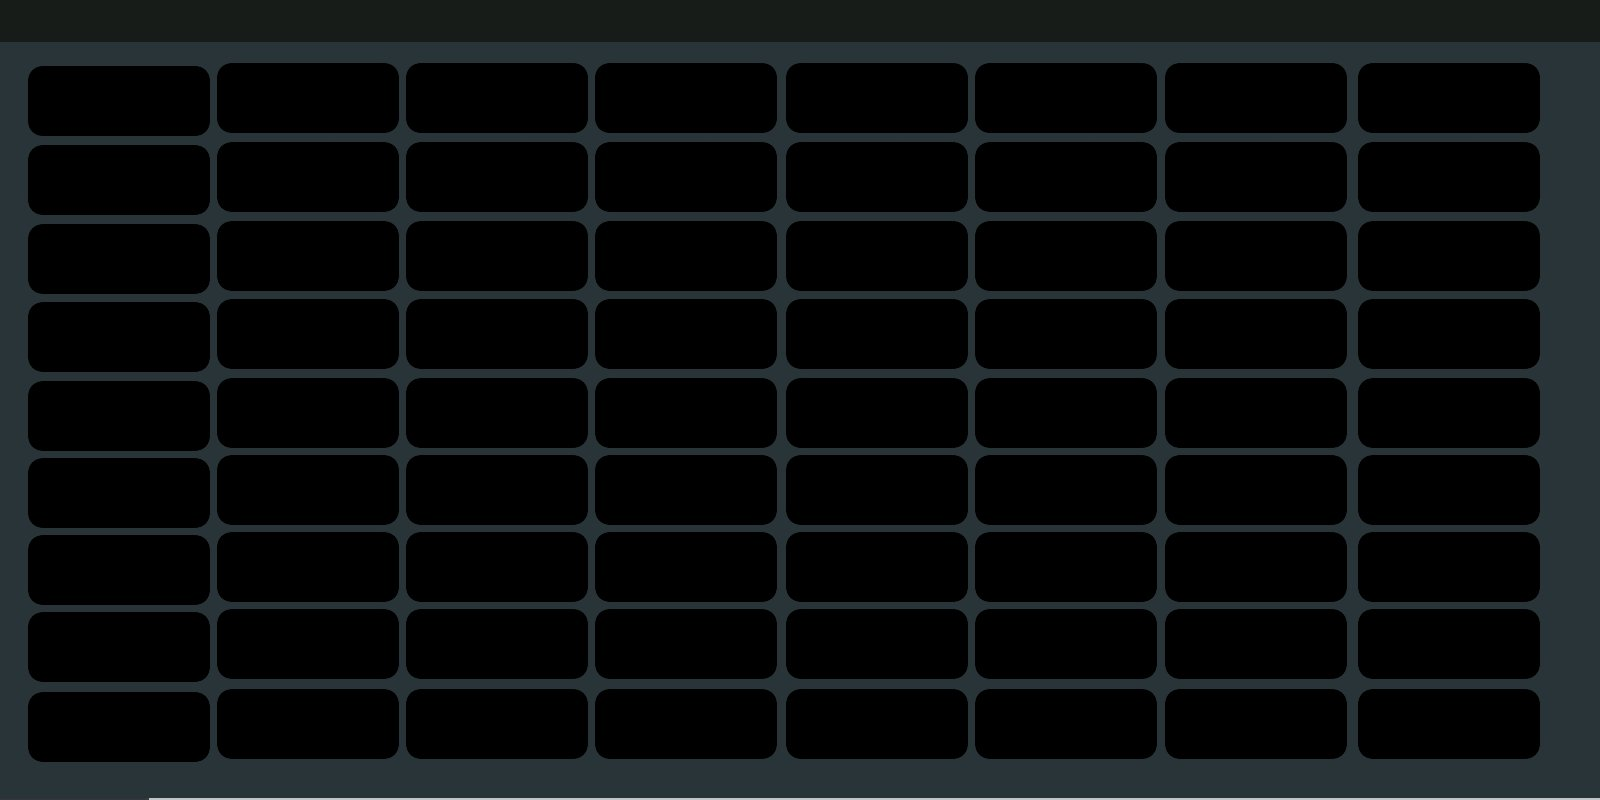
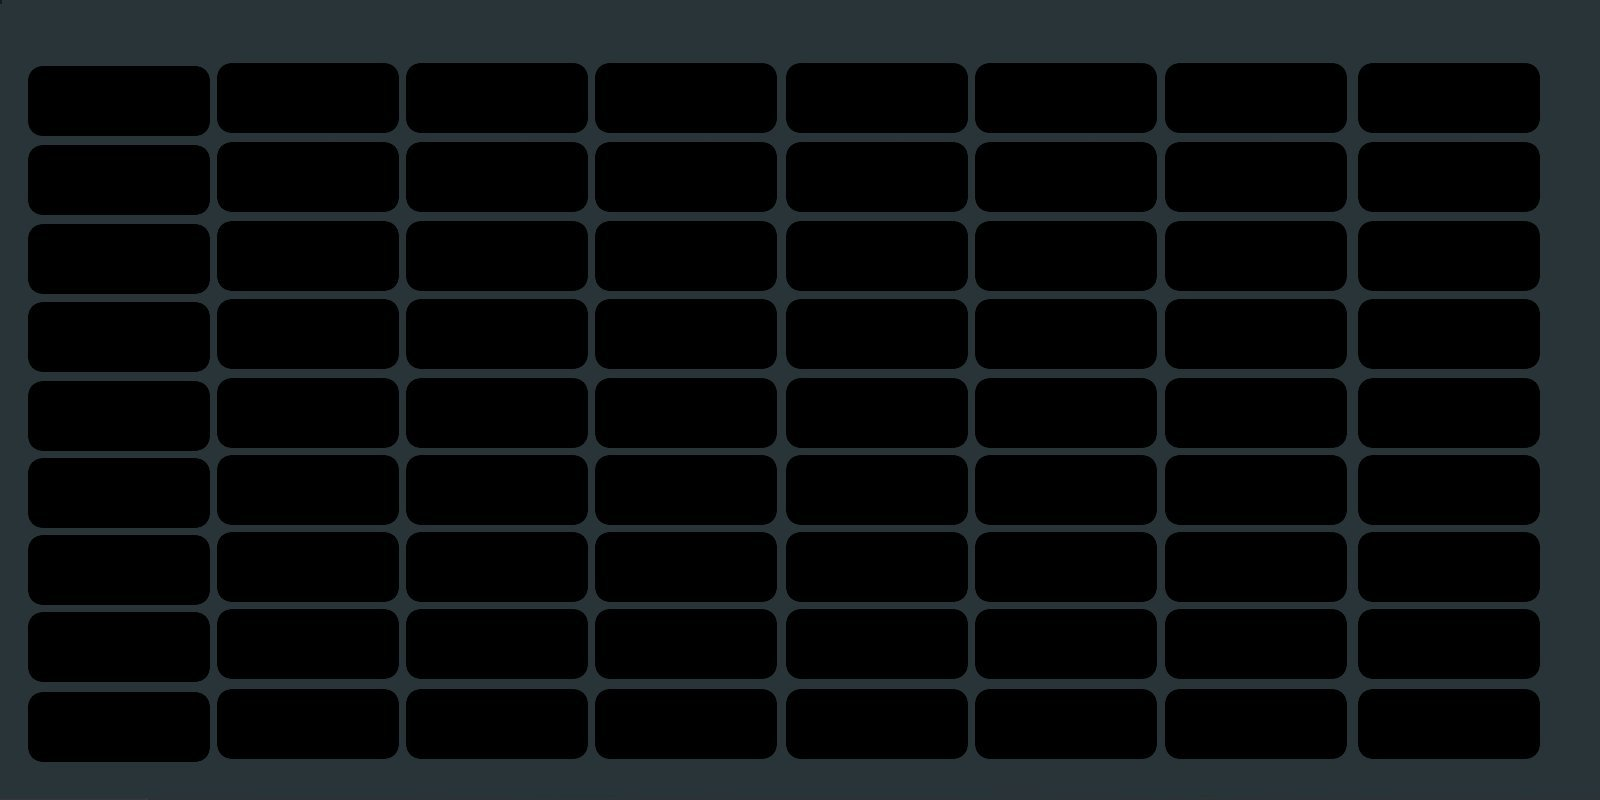
current_user

Changed region(s): [[0.0, 0.0, 1.0, 0.0625]]

diff --git a/app/assets/stylesheets/items.css.scss b/app/assets/stylesheets/items.css.scss
@@ -29,7 +29,7 @@ background:#847991;
 
 #eineebene
 {
-     border: 12px solid #293438;margin-left: 190px;margin-right: 0px;margin-top: 190px;background:#293438;-webkit-border-radius: 50px
+     border: 12px solid #293438;margin-left: 215px;margin-right: 0px;margin-top: 202px;background:#293438;-webkit-border-radius: 50px
 }
 
 #eineebene h2
@@ -74,4 +74,19 @@ font-family: 'NunitoRegular';
     background:#9ccf10;
     width:100px; position:absolute; top:165px; left:40px;
 
+}
+
+.Berichtrahmen
+{
+  border: 1px solid #f19324;-webkit-border-radius: 5px;
+    -khtml-border-radius: 5px;
+    -moz-border-radius: 5px;
+}
+
+.banner
+{
+background: #f19324;margin-top: 0px;margin-left: 0px;margin-right: 0px;width: 100%;-webkit-border-radius: 5px;
+    -khtml-border-radius: 5px;
+    -moz-border-radius: 5px; 
+    -moz-border-radius: 5px; 
 }

diff --git a/app/assets/stylesheets/users.css b/app/assets/stylesheets/users.css
@@ -5,10 +5,7 @@ color: #ffffff;
 
 .signedin
 {
- width:280px;
  position:absolute;
- top:5px;
- right:50px;
 }
 
 

diff --git a/app/models/user.rb b/app/models/user.rb
@@ -3,7 +3,10 @@ class User < ActiveRecord::Base
   # :token_authenticatable, :encryptable, :confirmable, :lockable, :timeoutable and :omniauthable
   devise :database_authenticatable, :registerable,
          :recoverable, :rememberable, :trackable, :validatable
-
+  
+  has_many :items
   # Setup accessible (or protected) attributes for your model
   attr_accessible :email, :password, :password_confirmation, :remember_me
+  
 end
+

diff --git a/app/controllers/items_controller.rb b/app/controllers/items_controller.rb
@@ -42,7 +42,7 @@ class ItemsController < ApplicationController
   # POST /items.json
   def create
     @item = Item.new(params[:item])
-
+    @item.user=current_user
     respond_to do |format|
       if @item.save
         format.html { redirect_to @item, notice: 'Item was successfully created.' }

diff --git a/app/models/item.rb b/app/models/item.rb
@@ -1,2 +1,3 @@
 class Item < ActiveRecord::Base
+  belongs_to :user 
 end
